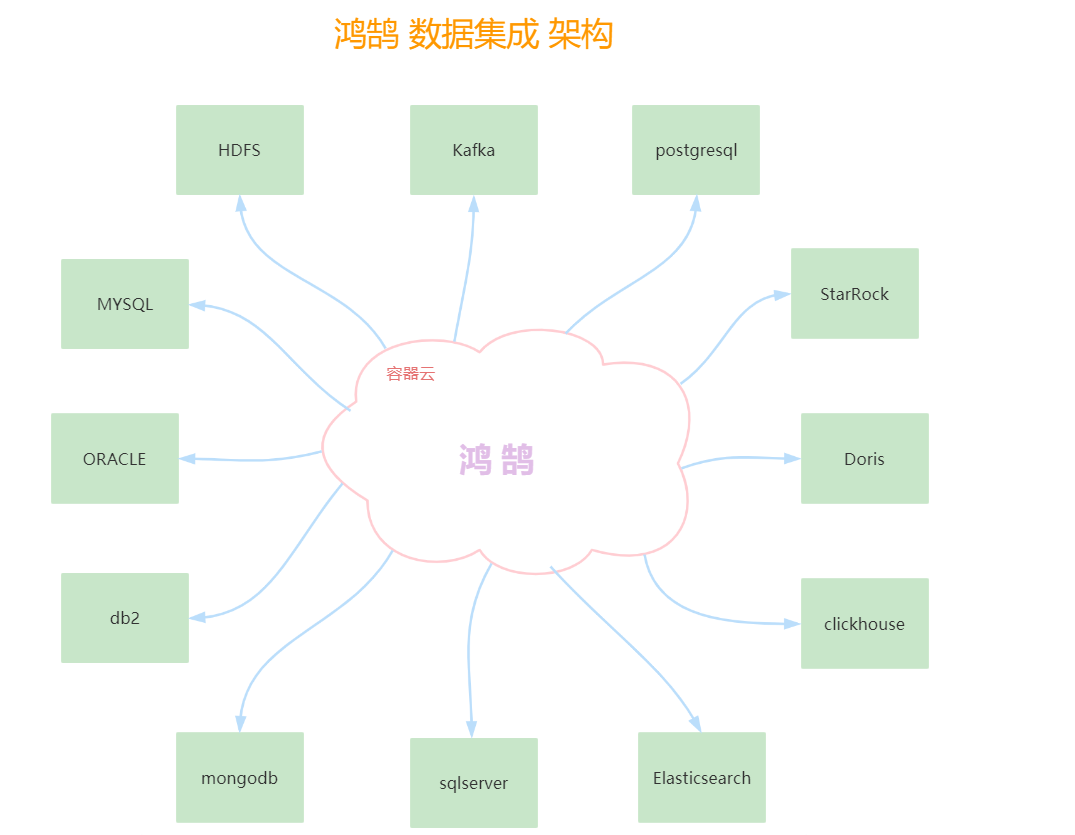
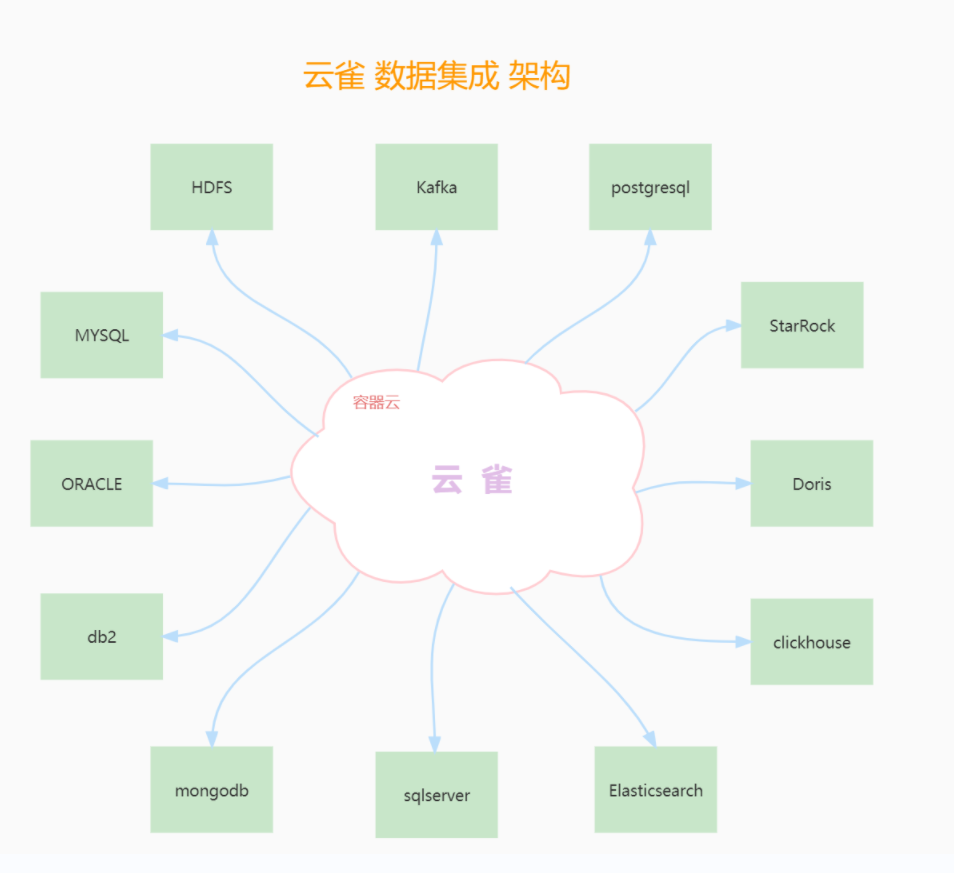
将鸿鹄改成云雀

diff --git a/README.md b/README.md
@@ -38,7 +38,7 @@
 ## 4.1获取代码
 
 ```
-git clone https://gitee.com/LarkMidTable/honghu.git
+git clone https://gitee.com/LarkMidTable/yunque.git
 ```
 
 ## 4.2 编译
@@ -101,13 +101,13 @@ sh start.sh
 
 **开发人员 ：**【 排名不计先后】
 
- [ZFCode](https://gitee.com/ZFCode)  、[陈小明](https://gitee.com/cenzhiming) 、[zhaowendong](https://gitee.com/PK_zwd) 、[baiyaoming](https://gitee.com/baiyaoming) 、[甲壳虫123](https://gitee.com/njhuanghua) 、[wangzhonghui](https://gitee.com/wangzhonghui1204) 、[youki](https://gitee.com/coreland_eip) 、[Forever](https://gitee.com/GenBrother) 、[Singularity](https://gitee.com/dangzefei) 、[红叶](https://gitee.com/houstao) 、 [起风了](https://gitee.com/its_windy) 、[qtyb](https://gitee.com/qtyb) 、[lindychan556666](https://gitee.com/chenlin556666) 
+ [ZFCode](https://gitee.com/ZFCode)  、[陈小明](https://gitee.com/cenzhiming) 、[zhaowendong](https://gitee.com/PK_zwd) 、[baiyaoming](https://gitee.com/baiyaoming) 、[甲壳虫123](https://gitee.com/njhuanghua) 、[wangzyunquei](https://gitee.com/wangzyunquei1204) 、[youki](https://gitee.com/coreland_eip) 、[Forever](https://gitee.com/GenBrother) 、[Singularity](https://gitee.com/dangzefei) 、[红叶](https://gitee.com/houstao) 、 [起风了](https://gitee.com/its_windy) 、[qtyb](https://gitee.com/qtyb) 、[lindychan556666](https://gitee.com/chenlin556666) 
 
 
 
 # 8.联系我们
 
-可以添加官方微信【**LarkMidTable2021**】,添加时备注【**honghu**】，可以参与讨论啦！
+可以添加官方微信【**LarkMidTable2021**】,添加时备注【**yunque**】，可以参与讨论啦！
 
 
 
